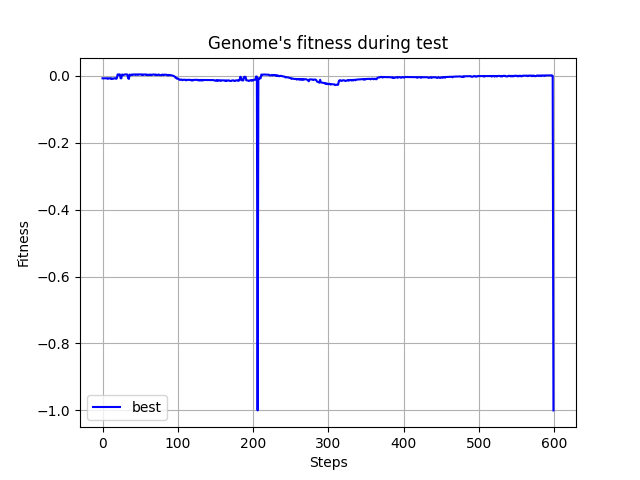
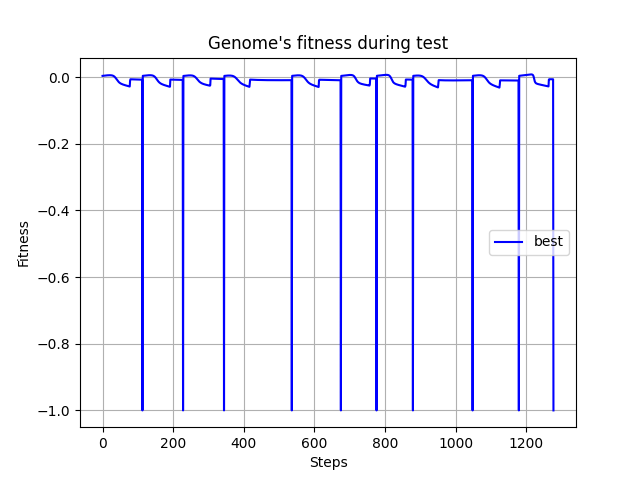
did something ... I think

diff --git a/2D_Physics_Simulation/NEAT_Sim/rocket_landing_sim/train_NEAT.py b/2D_Physics_Simulation/NEAT_Sim/rocket_landing_sim/train_NEAT.py
@@ -1,0 +1,85 @@
+"""
+SpaceX-Falcon-9-type-lander experiment using a feed-forward neural network.
+"""
+
+import multiprocessing
+import os
+import pickle
+
+import neat
+import numpy as np
+
+from visualize import plot_stats, plot_species
+
+import gym
+import rocket_lander_gym
+
+
+runs_per_net = 2
+
+# Use the NN network phenotype and the discrete actuator force function.
+def eval_genome(genome, config):
+    net = neat.nn.FeedForwardNetwork.create(genome, config)
+
+    fitnesses = []
+
+    for runs in range(runs_per_net):
+        env = gym.make("RocketLander-v0")
+
+        observation, info = env.reset()
+
+        # Run the given simulation for up to num_steps time steps.
+        fitness = 0.0
+        done = False
+        truncated = False
+        while all([(not done), (not truncated)]):
+    
+            output = net.activate(observation)
+            action = np.argmax(output)
+
+            observation, reward, done, truncated, info = env.step(action)
+
+            fitness += reward
+
+        fitnesses.append(fitness)
+
+    # The genome's fitness is its average performance across all runs.
+    return np.mean(fitnesses)
+
+
+def eval_genomes(genomes, config):
+    for genome_id, genome in genomes:
+        genome.fitness = eval_genome(genome, config)
+
+def run():
+    # Load the config file, which is assumed to live in
+    # the same directory as this script.
+    local_dir = os.path.dirname(__file__)
+    config_path = os.path.join(local_dir, 'config.txt')
+    config = neat.Config(neat.DefaultGenome, neat.DefaultReproduction,
+                         neat.DefaultSpeciesSet, neat.DefaultStagnation,
+                         config_path)
+
+    pop = neat.Population(config)
+    #pop = neat.Checkpointer.restore_checkpoint(os.path.join(local_dir, 'neat-checkpoint-460'))
+    
+    stats = neat.StatisticsReporter()
+    pop.add_reporter(stats)
+    pop.add_reporter(neat.StdOutReporter(True))
+    pop.add_reporter(neat.Checkpointer(25))
+
+    pe = neat.ParallelEvaluator(multiprocessing.cpu_count(), eval_genome)
+    winner = pop.run(pe.evaluate, 450)
+
+    # Save the winner.
+    with open(os.path.join(local_dir, 'stats/winner.pickle'), 'wb') as f:
+        pickle.dump(winner, f)
+
+    print(winner)
+
+    # Display the results
+    plot_stats(stats, ylog=False, view=True, filename=os.path.join(local_dir, "stats/feedforward-fitness.png"))
+    plot_species(stats, view=True, filename=os.path.join(local_dir, "stats/feedforward-speciation.png"))
+
+if __name__ == '__main__':
+    run()

diff --git a/2D_Physics_Simulation/NEAT_Sim/rocket_landing_sim/test_NEAT.py b/2D_Physics_Simulation/NEAT_Sim/rocket_landing_sim/test_NEAT.py
@@ -68,7 +68,7 @@ terminated = False
 truncated = False
 
 runs = 0
-MAX_RUNS = 2
+MAX_RUNS = 10
 
 steps = 0
 total_reward = 0
@@ -88,6 +88,7 @@ while runs < MAX_RUNS:
     steps += 1
     total_reward += reward
     reward_per_step.append(reward)
+    print(observation)
 
     if terminated or truncated:
         runs += 1
